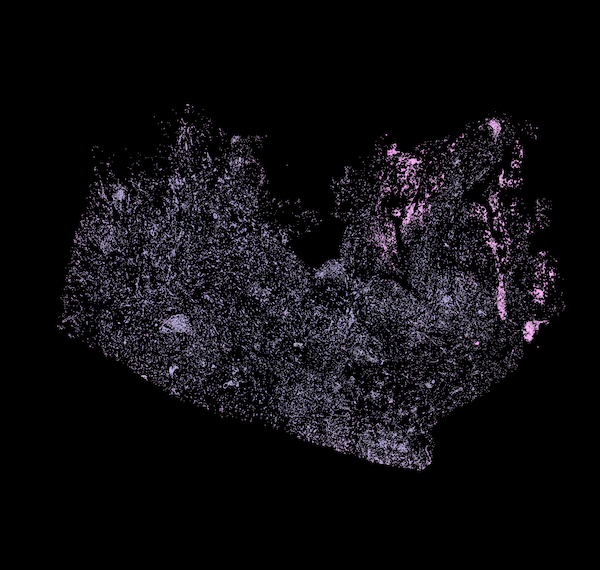
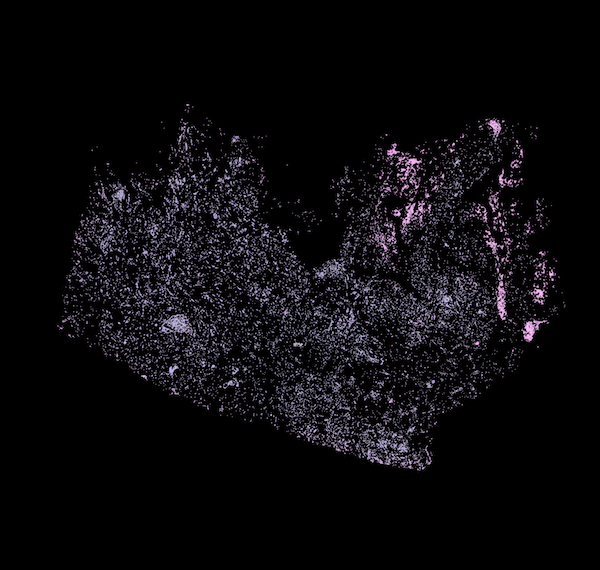
Overmask avoidance doc updates

Changed region(s): [[0.09, 0.2088, 0.93, 0.8351]]

diff --git a/docs/index.md b/docs/index.md
@@ -2035,7 +2035,7 @@ to the subset of relevant training images without requiring reprocessing of the 
 
 ## Overmask Avoidance
 
-When developing filters and filter settings to perform tissue identification on the entire training
+When developing filters and filter settings to perform tissue segmentation on the entire training
 set, we have to deal with a great amount of variation in the slide samples. To begin with, some slides have a large
 amount of tissue on them, while other slides only have a minimal amount of tissue. There is a great deal of
 variation in tissue staining. We also need to deal with additional issues such as pen marks and shadows on some of
@@ -2075,15 +2075,14 @@ at risk for overmasking with our given combination of filters.
 | ![Slide with Small Tissue Sample and Faint Staining](images/424-rgb.png "Slide with Small Tissue Sample and Faint Staining") |
 
 
-
 Therefore, rather than having fixed settings, we can automatically have our filters tweak parameter values to avoid
 overmasking if desired. As examples, the `filter_green_channel()` and `filter_remove_small_objects()` functions have
-this ability. If this masking exceeds a certain overmasking threshold, a parameter value can be changed to lower
+this ability. If masking exceeds a certain overmasking threshold, a parameter value can be changed to lower
 the amount of masking until the masking is below the overmasking threshold.
 
 ```
-filter_green_channel(np_img, green_thresh=200, avoid_overmask=True, overmask_thresh=90, output_type="bool")
-filter_remove_small_objects(np_img, min_size=3000, avoid_overmask=True, overmask_thresh=95, output_type="uint8")
+filter.filter_green_channel(np_img, green_thresh=200, avoid_overmask=True, overmask_thresh=90, output_type="bool")
+filter.filter_remove_small_objects(np_img, min_size=3000, avoid_overmask=True, overmask_thresh=95, output_type="uint8")
 ```
 
 For the `filter_green_channel()` function, if a `green_thresh` value of 200 results in masking over 90%, the
@@ -2096,13 +2095,13 @@ reductions will continue until the masking level isn't over 95%.
 
 Examining our full set of images using `multiprocess_apply_filters_to_images()`, we can identify slides that are
 at risk for overmasking. We can create a list of these slide numbers and use `multiprocess_apply_filters_to_images()`
-with this list of slide numbers to generate our HTML filters page that allows us to visually inspect the filters
+with this list of slide numbers to generate the `filters.html` page that allows us to visually inspect the filters
 applied to this set of slides.
 
 ```
 overmasked_slides = [1, 21, 29, 37, 43, 88, 116, 126, 127, 142, 145, 173, 196, 220, 225, 234, 238, 284, 292, 294, 304,
                      316, 401, 403, 424, 448, 452, 472, 494]
-multiprocess_apply_filters_to_images(image_num_list=overmasked_slides)
+filter.multiprocess_apply_filters_to_images(image_num_list=overmasked_slides)
 ```
 
 Let's have a look at how we reduce overmasking on slide 21, which is a slide that has very faint staining.
@@ -2115,81 +2114,88 @@ Let's have a look at how we reduce overmasking on slide 21, which is a slide tha
 We'll run our filters on slide #21 by calling `singleprocess_apply_filters_to_images(image_num_list=[21])`.
 
 If we set the `filter_green_channel()` and `filter_remove_small_objects()` `avoid_overmask` parameters to False,
-97.15% of the original image is masked by the "green channel" filter and 99.84% of the original image is
+97.69% of the original image is masked by the "green channel" filter and 99.92% of the original image is
 masked by the subsequent "remove small objects" filter. This is significant overmasking.
 
-| **Overmasked by Green Channel Filter (97.15%)** | **Overmasked by Remove Small Objects Filter (99.84%)** |
+| **Overmasked by Green Channel Filter (97.69%)** | **Overmasked by Remove Small Objects Filter (99.92%)** |
 | -- | -- |
-| ![Overmasked by Green Channel Filter (97.15%)](images/21-overmask-green-ch.png "Overmasked by Green Channel Filter (97.15%)") | ![Overmasked by Remove Small Objects Filter (99.84%)](images/21-overmask-green-ch-overmask-rem-small-obj.png "Overmasked by Remove Small Objects Filter (99.84%)")
+| ![Overmasked by Green Channel Filter (97.69%)](images/21-overmask-green-ch.png "Overmasked by Green Channel Filter (97.69%)") | ![Overmasked by Remove Small Objects Filter (99.92%)](images/21-overmask-green-ch-overmask-rem-small-obj.png "Overmasked by Remove Small Objects Filter (99.92%)")
 
 If we set `avoid_overmask` to True for `filter_remove_small_objects()`, we see that the "remove small objects"
-filter does not perform any further masking since the 97.15% masking from the previous "green channel" filter
+filter does not perform any further masking since the 97.69% masking from the previous "green channel" filter
 already exceeds its overmasking threshold of 95%.
 
-| **Overmasked by Green Channel Filter (97.15%)** | **Avoid Overmask by Remove Small Objects Filter (97.15%)** |
+| **Overmasked by Green Channel Filter (97.69%)** | **Avoid Overmask by Remove Small Objects Filter (97.69%)** |
 | -- | -- |
-| ![Overmasked by Green Channel Filter (97.15%)](images/21-overmask-green-ch.png "Overmasked by Green Channel Filter (97.15%)") | ![Avoid Overmask by Remove Small Objects Filter (97.15%)](images/21-overmask-green-ch-avoid-overmask-rem-small-obj.png "Avoid Overmask by Remove Small Objects Filter (97.15%)")
+| ![Overmasked by Green Channel Filter (97.69%)](images/21-overmask-green-ch.png "Overmasked by Green Channel Filter (97.69%)") | ![Avoid Overmask by Remove Small Objects Filter (97.69%)](images/21-overmask-green-ch-avoid-overmask-rem-small-obj.png "Avoid Overmask by Remove Small Objects Filter (97.69%)")
 
 
 If we set `avoid_overmask` back to False for `filter_remove_small_objects()` and we set `avoid_overmask` to True for
-`filter_green_channel()`, we see that 88.46% of the original image is masked by the "green channel" filter (under
-the 90% overmasking threshold for the filter) and 97.81% of the image is masked by the subsequent
+`filter_green_channel()`, we see that 87.91% of the original image is masked by the "green channel" filter (under
+the 90% overmasking threshold for the filter) and 97.40% of the image is masked by the subsequent
 "remove small objects" filter.
 
-| **Avoid Overmask by Green Channel Filter (88.46%)** | **Overmask by Remove Small Objects Filter (97.81%)** |
+| **Avoid Overmask by Green Channel Filter (87.91%)** | **Overmask by Remove Small Objects Filter (97.40%)** |
 | -- | -- |
-| ![Avoid Overmask by Green Channel Filter (88.46%)](images/21-avoid-overmask-green-ch.png "Avoid Overmask by Green Channel Filter (88.46%)") | ![Overmask by Remove Small Objects Filter (97.81%)](images/21-avoid-overmask-green-ch-overmask-rem-small-obj.png "Overmask by Remove Small Objects Filter (97.81%)")
+| ![Avoid Overmask by Green Channel Filter (87.91%)](images/21-avoid-overmask-green-ch.png "Avoid Overmask by Green Channel Filter (87.91%)") | ![Overmask by Remove Small Objects Filter (97.40%)](images/21-avoid-overmask-green-ch-overmask-rem-small-obj.png "Overmask by Remove Small Objects Filter (97.40%)")
 
 
 If we set `avoid_overmask` to True for both `filter_green_channel()` and `filter_remove_small_objects()`, we see that
-the resulting masking after the "remove small objects" filter has been reduced to 93.96%, which is under its
+the resulting masking after the "remove small objects" filter has been reduced to 94.88%, which is under its
 overmasking threshold of 95%.
 
-| **Avoid Overmask by Green Channel Filter (88.46%)** | **Avoid Overmask by Remove Small Objects Filter (93.96%)** |
+| **Avoid Overmask by Green Channel Filter (87.91%)** | **Avoid Overmask by Remove Small Objects Filter (94.88%)** |
 | -- | -- |
-| ![Avoid Overmask by Green Channel Filter (88.46%)](images/21-avoid-overmask-green-ch-2.png "Avoid Overmask by Green Channel Filter (88.46%)") | ![Avoid Overmask by Remove Small Objects Filter (93.96%)](images/21-avoid-overmask-green-ch-avoid-overmask-rem-small-obj.png "Avoid Overmask by Remove Small Objects Filter (93.96%)")
+| ![Avoid Overmask by Green Channel Filter (87.91%)](images/21-avoid-overmask-green-ch-2.png "Avoid Overmask by Green Channel Filter (87.91%)") | ![Avoid Overmask by Remove Small Objects Filter (94.88%)](images/21-avoid-overmask-green-ch-avoid-overmask-rem-small-obj.png "Avoid Overmask by Remove Small Objects Filter (94.88%)")
 
 
-Thus, in this example we've reduced the masking from 99.84% to 93.96%.
+Thus, in this example we've reduced the masking from 99.92% to 94.88%.
 
 We can see the filter adjustments being made in the console output.
 
 ```
-Applying filters to images
-
 Processing slide #21
-RGB                  | Time: 0:00:00.168369  Type: uint8   Shape: (1944, 2048, 3)
-Save Image           | Time: 0:00:01.044200  Name: /Volumes/BigData/TUPAC/filter_2048_png/TUPAC-TR-021-001-2048-rgb.png
-Mask percentage 97.15% >= overmask threshold 90.00% for Remove Green Channel green_thresh=200, so try 227
-Filter Green Channel | Time: 0:00:00.009298  Type: bool    Shape: (1944, 2048)
-Filter Green Channel | Time: 0:00:00.021384  Type: bool    Shape: (1944, 2048)
-Mask RGB             | Time: 0:00:00.016247  Type: uint8   Shape: (1944, 2048, 3)
-Save Image           | Time: 0:00:00.537678  Name: /Volumes/BigData/TUPAC/filter_2048_png/TUPAC-TR-021-002-2048-rgb-not-green.png
-Filter Grays         | Time: 0:00:00.130681  Type: bool    Shape: (1944, 2048)
-Mask RGB             | Time: 0:00:00.015921  Type: uint8   Shape: (1944, 2048, 3)
-Save Image           | Time: 0:00:00.505956  Name: /Volumes/BigData/TUPAC/filter_2048_png/TUPAC-TR-021-003-2048-rgb-not-gray.png
-Filter Red Pen       | Time: 0:00:00.103038  Type: bool    Shape: (1944, 2048)
-Mask RGB             | Time: 0:00:00.014579  Type: uint8   Shape: (1944, 2048, 3)
-Save Image           | Time: 0:00:00.995982  Name: /Volumes/BigData/TUPAC/filter_2048_png/TUPAC-TR-021-004-2048-rgb-no-red-pen.png
-Filter Green Pen     | Time: 0:00:00.148576  Type: bool    Shape: (1944, 2048)
-Mask RGB             | Time: 0:00:00.013955  Type: uint8   Shape: (1944, 2048, 3)
-Save Image           | Time: 0:00:00.981354  Name: /Volumes/BigData/TUPAC/filter_2048_png/TUPAC-TR-021-005-2048-rgb-no-green-pen.png
-Filter Blue Pen      | Time: 0:00:00.133999  Type: bool    Shape: (1944, 2048)
-Mask RGB             | Time: 0:00:00.014755  Type: uint8   Shape: (1944, 2048, 3)
-Save Image           | Time: 0:00:01.020773  Name: /Volumes/BigData/TUPAC/filter_2048_png/TUPAC-TR-021-006-2048-rgb-no-blue-pen.png
-Mask RGB             | Time: 0:00:00.015858  Type: uint8   Shape: (1944, 2048, 3)
-Save Image           | Time: 0:00:00.541936  Name: /Volumes/BigData/TUPAC/filter_2048_png/TUPAC-TR-021-007-2048-rgb-no-gray-no-green-no-pens.png
-Mask percentage 97.81% >= overmask threshold 95.00% for Remove Small Objs size 500, so try 250
-Mask percentage 97.04% >= overmask threshold 95.00% for Remove Small Objs size 250, so try 125
-Mask percentage 96.06% >= overmask threshold 95.00% for Remove Small Objs size 125, so try 62
-Mask percentage 95.02% >= overmask threshold 95.00% for Remove Small Objs size 62, so try 31
-Remove Small Objs    | Time: 0:00:00.076443  Type: bool    Shape: (1944, 2048)
-Remove Small Objs    | Time: 0:00:00.160442  Type: bool    Shape: (1944, 2048)
-Remove Small Objs    | Time: 0:00:00.231779  Type: bool    Shape: (1944, 2048)
-Remove Small Objs    | Time: 0:00:00.300997  Type: bool    Shape: (1944, 2048)
-Remove Small Objs    | Time: 0:00:00.376790  Type: bool    Shape: (1944, 2048)
-Mask RGB             | Time: 0:00:00.016087  Type: uint8   Shape: (1944, 2048, 3)
-Save Image           | Time: 0:00:00.453725  Name: /Volumes/BigData/TUPAC/filter_2048_png/TUPAC-TR-021-008-2048-rgb-not-green-not-gray-no-pens-remove-small.png
-Slide #021 processing time: 0:00:07.492792
+RGB                  | Time: 0:00:00.107057  Type: uint8   Shape: (1496, 1576, 3)
+Save Image           | Time: 0:00:00.612523  Name: /Volumes/BigData/TUPAC/filter_png/TUPAC-TR-021-001-rgb.png
+Save Thumbnail       | Time: 0:00:00.018348  Name: /Volumes/BigData/TUPAC/filter_thumbnail_jpg/TUPAC-TR-021-001-rgb.jpg
+Mask percentage 97.69% >= overmask threshold 90.00% for Remove Green Channel green_thresh=200, so try 227
+Filter Green Channel | Time: 0:00:00.005076  Type: bool    Shape: (1496, 1576)
+Filter Green Channel | Time: 0:00:00.010362  Type: bool    Shape: (1496, 1576)
+Mask RGB             | Time: 0:00:00.008531  Type: uint8   Shape: (1496, 1576, 3)
+Save Image           | Time: 0:00:00.325600  Name: /Volumes/BigData/TUPAC/filter_png/TUPAC-TR-021-002-rgb-not-green.png
+Save Thumbnail       | Time: 0:00:00.018255  Name: /Volumes/BigData/TUPAC/filter_thumbnail_jpg/TUPAC-TR-021-002-rgb-not-green.jpg
+Filter Grays         | Time: 0:00:00.078234  Type: bool    Shape: (1496, 1576)
+Mask RGB             | Time: 0:00:00.009263  Type: uint8   Shape: (1496, 1576, 3)
+Save Image           | Time: 0:00:00.316081  Name: /Volumes/BigData/TUPAC/filter_png/TUPAC-TR-021-003-rgb-not-gray.png
+Save Thumbnail       | Time: 0:00:00.017545  Name: /Volumes/BigData/TUPAC/filter_thumbnail_jpg/TUPAC-TR-021-003-rgb-not-gray.jpg
+Filter Red Pen       | Time: 0:00:00.062633  Type: bool    Shape: (1496, 1576)
+Mask RGB             | Time: 0:00:00.009025  Type: uint8   Shape: (1496, 1576, 3)
+Save Image           | Time: 0:00:00.618641  Name: /Volumes/BigData/TUPAC/filter_png/TUPAC-TR-021-004-rgb-no-red-pen.png
+Save Thumbnail       | Time: 0:00:00.016450  Name: /Volumes/BigData/TUPAC/filter_thumbnail_jpg/TUPAC-TR-021-004-rgb-no-red-pen.jpg
+Filter Green Pen     | Time: 0:00:00.093654  Type: bool    Shape: (1496, 1576)
+Mask RGB             | Time: 0:00:00.008186  Type: uint8   Shape: (1496, 1576, 3)
+Save Image           | Time: 0:00:00.615919  Name: /Volumes/BigData/TUPAC/filter_png/TUPAC-TR-021-005-rgb-no-green-pen.png
+Save Thumbnail       | Time: 0:00:00.016976  Name: /Volumes/BigData/TUPAC/filter_thumbnail_jpg/TUPAC-TR-021-005-rgb-no-green-pen.jpg
+Filter Blue Pen      | Time: 0:00:00.069574  Type: bool    Shape: (1496, 1576)
+Mask RGB             | Time: 0:00:00.008654  Type: uint8   Shape: (1496, 1576, 3)
+Save Image           | Time: 0:00:00.620468  Name: /Volumes/BigData/TUPAC/filter_png/TUPAC-TR-021-006-rgb-no-blue-pen.png
+Save Thumbnail       | Time: 0:00:00.018341  Name: /Volumes/BigData/TUPAC/filter_thumbnail_jpg/TUPAC-TR-021-006-rgb-no-blue-pen.jpg
+Mask RGB             | Time: 0:00:00.009056  Type: uint8   Shape: (1496, 1576, 3)
+Save Image           | Time: 0:00:00.308774  Name: /Volumes/BigData/TUPAC/filter_png/TUPAC-TR-021-007-rgb-no-gray-no-green-no-pens.png
+Save Thumbnail       | Time: 0:00:00.019130  Name: /Volumes/BigData/TUPAC/filter_thumbnail_jpg/TUPAC-TR-021-007-rgb-no-gray-no-green-no-pens.jpg
+Mask percentage 97.40% >= overmask threshold 95.00% for Remove Small Objs size 500, so try 250
+Mask percentage 96.83% >= overmask threshold 95.00% for Remove Small Objs size 250, so try 125
+Mask percentage 95.87% >= overmask threshold 95.00% for Remove Small Objs size 125, so try 62
+Remove Small Objs    | Time: 0:00:00.034327  Type: bool    Shape: (1496, 1576)
+Remove Small Objs    | Time: 0:00:00.068586  Type: bool    Shape: (1496, 1576)
+Remove Small Objs    | Time: 0:00:00.104876  Type: bool    Shape: (1496, 1576)
+Remove Small Objs    | Time: 0:00:00.140102  Type: bool    Shape: (1496, 1576)
+Mask RGB             | Time: 0:00:00.007216  Type: uint8   Shape: (1496, 1576, 3)
+Save Image           | Time: 0:00:00.245963  Name: /Volumes/BigData/TUPAC/filter_png/TUPAC-TR-021-008-rgb-not-green-not-gray-no-pens-remove-small.png
+Save Thumbnail       | Time: 0:00:00.016763  Name: /Volumes/BigData/TUPAC/filter_thumbnail_jpg/TUPAC-TR-021-008-rgb-not-green-not-gray-no-pens-remove-small.jpg
+Save Image           | Time: 0:00:00.248853  Name: /Volumes/BigData/TUPAC/filter_png/TUPAC-TR-021-32x-50432x47872-1576x1496-filtered.png
+Save Thumbnail       | Time: 0:00:00.019088  Name: /Volumes/BigData/TUPAC/filter_thumbnail_jpg/TUPAC-TR-021-32x-50432x47872-1576x1496-filtered.jpg
+Slide #021 processing time: 0:00:04.787326
+
 ```
 
